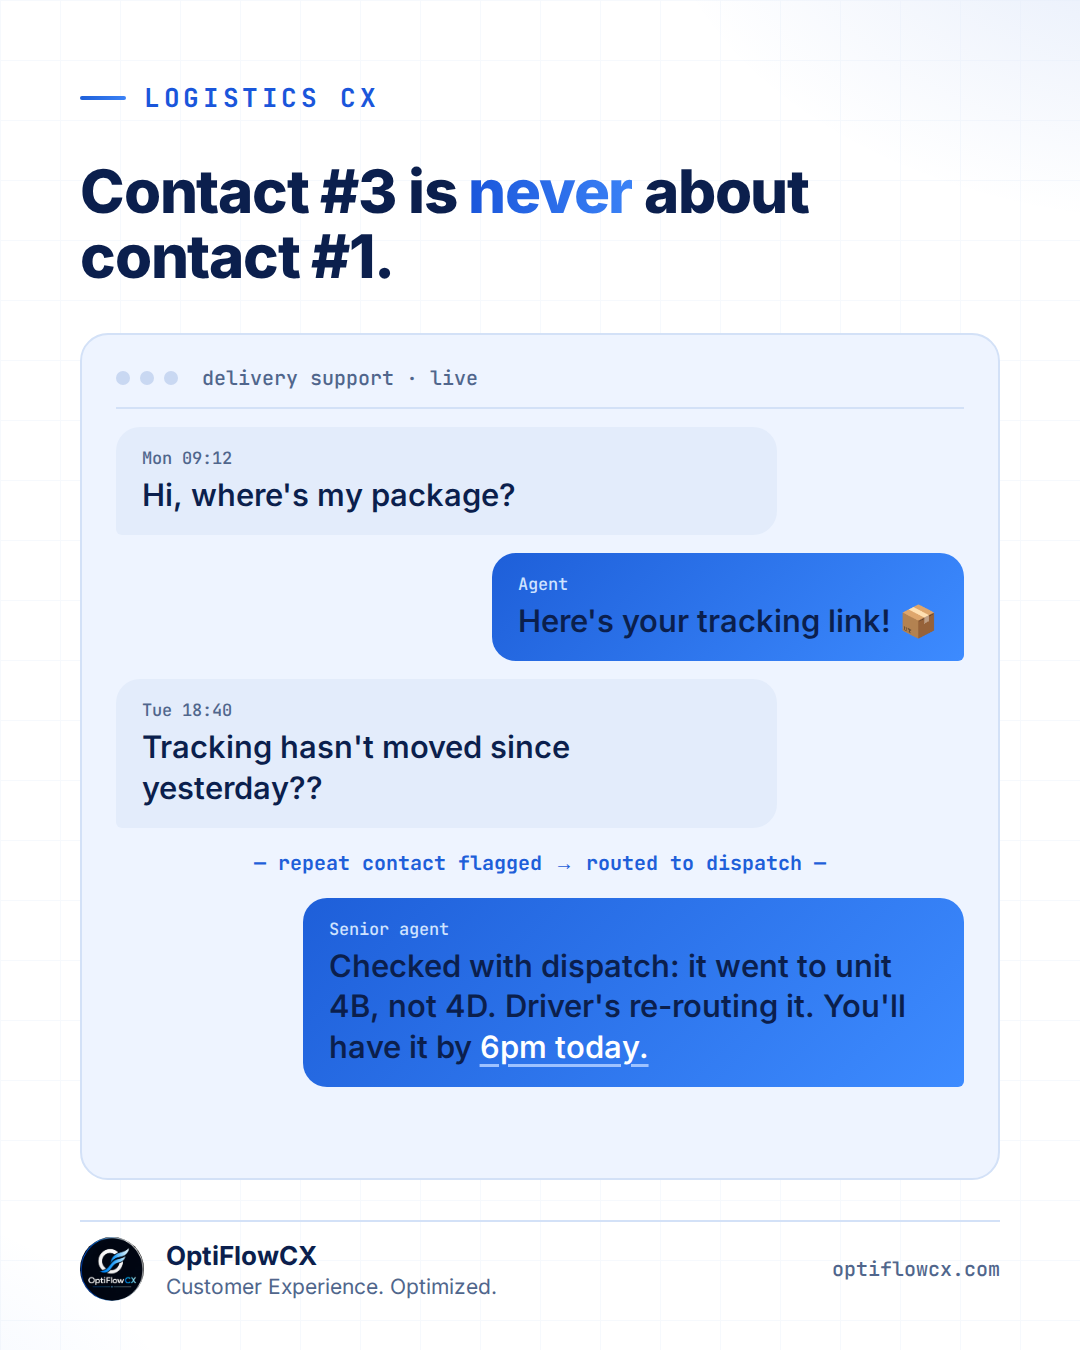
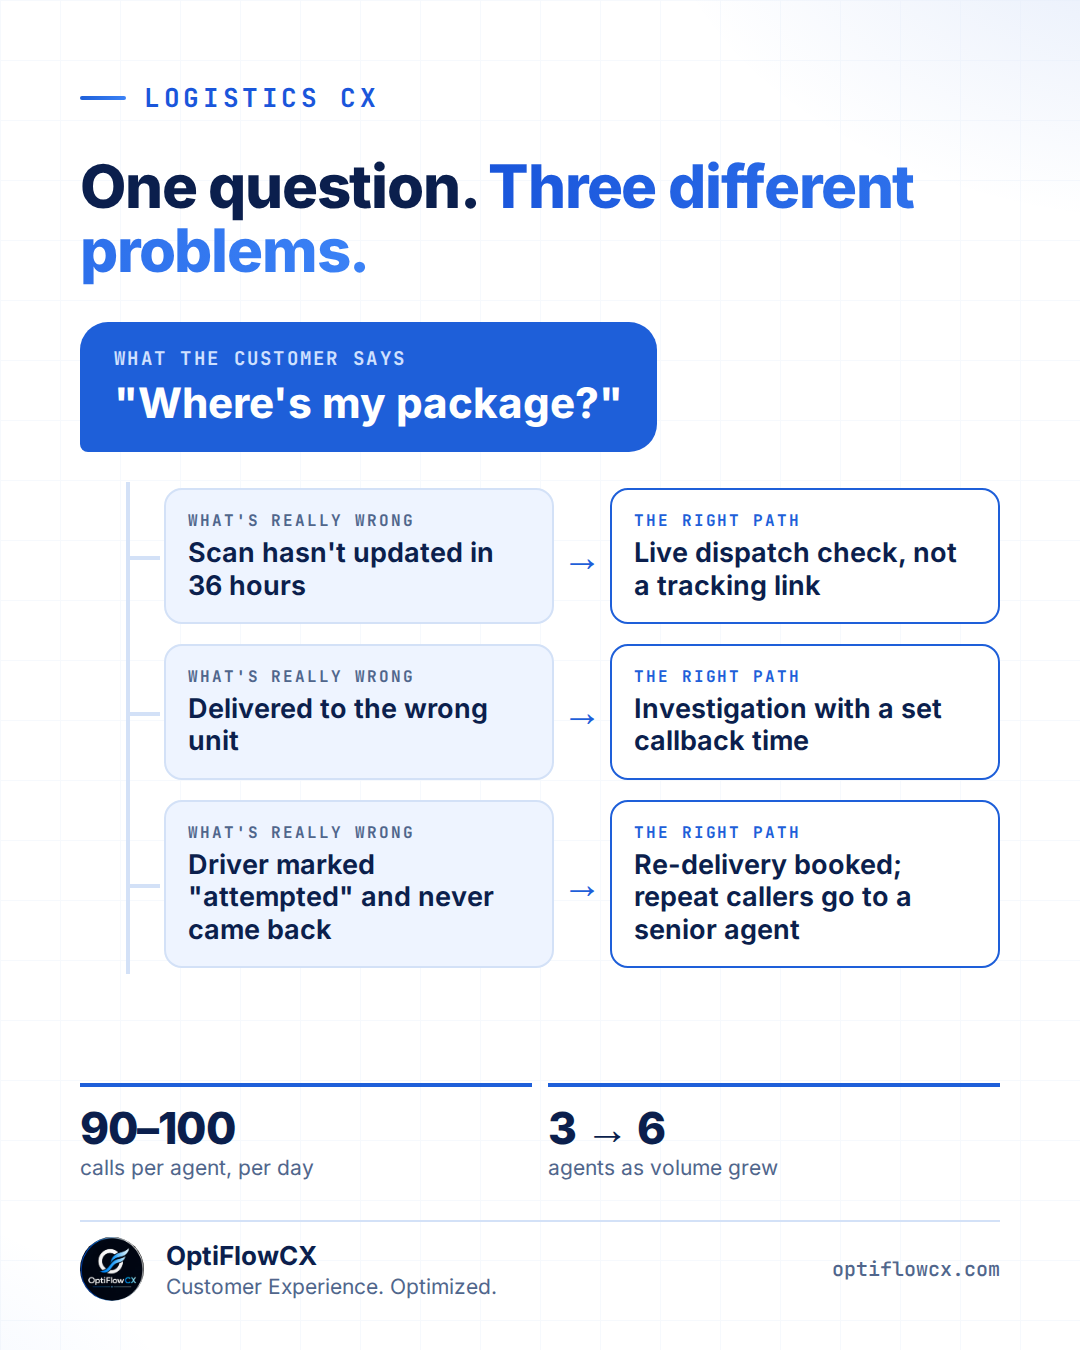
Add tree card layout; redesign day 2 company card around the post's symptom-vs-cause idea
Claude-Session: https://claude.ai/code/session_01KEqnPj1WwLQMN4o1YkEWT9

Changed region(s): [[0.0611, 0.1244, 0.9167, 0.8711], [0.0611, 0.7778, 0.275, 0.8711]]

diff --git a/content/preview.html b/content/preview.html
@@ -184,7 +184,7 @@ Fashion founders: what piles up first after a big drop: sizing, WISMO or returns
   </div>
 </article>
 <article class="post" data-account="company">
-  <img src="images/2026-09-29-pm.png" alt="Chat window mock-up: a customer asks where their package is three times, then a support agent resolves it by checking dispatch." loading="lazy" width="1080" height="1350">
+  <img src="images/2026-09-29-pm.png" alt="Diagram: the customer question 'Where's my package?' splits into three real problems (stale scan, wrong unit, failed delivery attempt), each with its own fix, above stats of 90-100 calls per agent a day and a team grown from 3 to 6." loading="lazy" width="1080" height="1350">
   <div class="body">
     <div class="meta">
       <span class="acct company">Company page</span>
